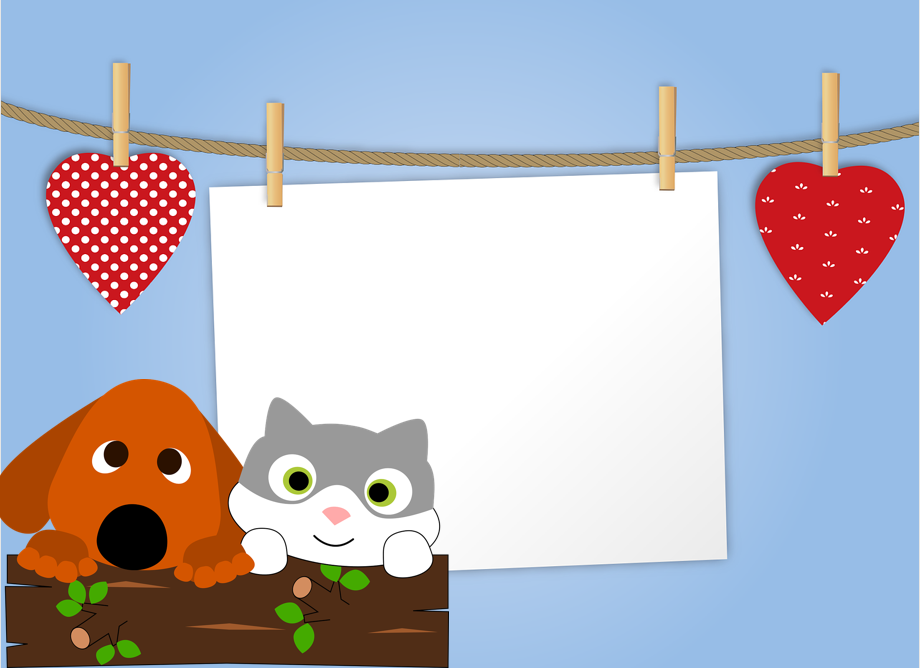
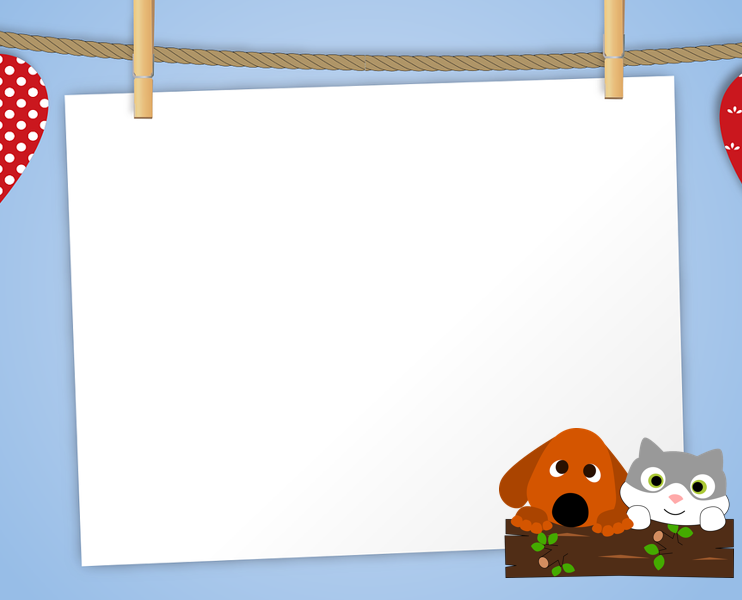
change on quizzs pages and make try agian get same quizze

diff --git a/src/Pages/result.jsx b/src/Pages/result.jsx
@@ -13,7 +13,7 @@ import axios from "axios";
 import Navbar from "../components/Navbar";
 
 //assest
-import bg1 from "../asset/quizzes/bg3.png";
+import bg1 from "../asset/quizzes/bg4.png";
 
 const styles = {
   flash: {
@@ -43,19 +43,83 @@ const Result = (props) => {
   const color = () => {
     var result = "";
     if (userComplete.userMark >= 90) {
-      result = "#88bef5";
+      result = "#581b98";
     }
     if (userComplete.userMark >= 75 && userComplete.userMark < 90) {
-      result = "#fccde2";
+      result = "#fc5185";
     }
     if (userComplete.userMark >= 50 && userComplete.userMark < 75) {
       result = "#2cb978";
     }
     if (userComplete.userMark >= 0 && userComplete.userMark < 50) {
-      result = "#ff1f5a";
+      result = "#482ff7";
     }
     return result;
   };
+
+  const suggestion = () => {
+    var suggestion = "";
+    if (quizBundle.quizSeries == 1 && userComplete.userMark <100){
+      suggestion = "Please learn more in What is drought page";
+    }
+    if (quizBundle.quizSeries == 1 && userComplete.userMark == 100){
+      suggestion = "Good understanding about what is drought";
+    }
+    if (quizBundle.quizSeries == 2 && userComplete.userMark <100){
+      suggestion = "Please learn more in Why drought happens page";
+    }
+    if (quizBundle.quizSeries == 2 && userComplete.userMark == 100){
+      suggestion = "Good understanding about why drought happens";
+    }
+    if (quizBundle.quizSeries == 3 && userComplete.userMark <100){
+      suggestion = "Please learn more in Damage page";
+    }
+    if (quizBundle.quizSeries == 3 && userComplete.userMark == 100){
+      suggestion = "Good understanding about damage of drought";
+    }
+    if (quizBundle.quizSeries == 4 && userComplete.userMark <100){
+      suggestion = "Please learn more in countermeasure page";
+    }
+    if (quizBundle.quizSeries == 4 && userComplete.userMark == 100){
+      suggestion = "Good understanding about how to prevent drought";
+    }
+    if (quizBundle.quizSeries == 5 && userComplete.userMark <100){
+      suggestion = "Please learn more in virtualisation pages";
+    }
+    if (quizBundle.quizSeries == 5 && userComplete.userMark == 100){
+      suggestion = "Good understanding about virtualisation pages";
+    }
+    if (quizBundle.quizSeries == 6 && userComplete.userMark <100){
+      suggestion = "Please learn more in History of drought page";
+    }
+    if (quizBundle.quizSeries == 6 && userComplete.userMark == 100){
+      suggestion = "Good understanding about history of drought";
+    }
+    return suggestion;
+  }
+
+  const WrongAnswer = () =>{
+    var correctAuswers = "";
+    console.log(quizBundle);
+    if (userComplete.userMark <100){
+    for(var i =0; i <quizBundle.questions.length;i++)
+    {
+      if(quizBundle.questions[i].correctAnswer != quizBundle.questions[i].userSelect)
+      {
+        var b = i + 1;
+        var userAnswer = "";
+        if (quizBundle.questions[i].userSelect == " ")
+        {
+          userAnswer = "nothing";
+        }else{
+          userAnswer = quizBundle.questions[i].userSelect;
+        }
+        correctAuswers += "In the question "+ b +", you choose " + userAnswer + " but correct answer is " + quizBundle.questions[i].correctAnswer + "\n"
+      }
+    }
+    }else{correctAuswers ="Congratulations! You answer all questions correct!!!"}
+    return correctAuswers;
+  }
 
   const judge = () => {
     var result = "";
@@ -143,12 +207,12 @@ const Result = (props) => {
       padding: theme.spacing(27, 0, 27),
     },
     headingContent1: {
-      padding: theme.spacing(7, 90, 0),
+      padding: theme.spacing(7, 100, 0),
     },
     titleStyle: {
       padding: theme.spacing(15, 0, 0),
       color: "#000000",
-      fontSize: 20,
+      fontSize: 40,
       fontWeight: "bold",
     },
     titleStyle1: {
@@ -162,6 +226,12 @@ const Result = (props) => {
       fontSize: 20,
       fontWeight: "bold",
       padding: theme.spacing(5, 0, 0),
+    },
+    titleStyle3: {
+      color: "#000000",
+      fontSize: 20,
+      fontWeight: "bold",
+      padding: theme.spacing(0, 0, 0),
     },
     subtitleStyle: {
       color: "#fdfdfd",
@@ -210,6 +280,13 @@ const Result = (props) => {
           className={classes.titleStyle}
           align="center"
         >
+          Hi! {userName}
+        </Typography>
+        <Typography
+          {...resultProp}
+          className={classes.titleStyle2}
+          align="center"
+        >
           {"You have try " +
             userComplete.userCompleted +
             " question out of total " +
@@ -221,20 +298,31 @@ const Result = (props) => {
           className={classes.titleStyle2}
           align="center"
         >
-          {"Your got " + userComplete.userScore + " correct answer"}
-        </Typography>
-        <Typography
-          {...resultProp}
-          className={classes.titleStyle2}
-          align="center"
-        >
-          {"Your final mark is " +
+          {"Your got " + userComplete.userScore + " correct answer, "}
+          {"your final mark is " +
             Math.round(
               (userComplete.userScore / userComplete.totalQuiz +
                 Number.EPSILON) *
                 100
             )}
         </Typography>
+        <Typography
+          {...resultProp}
+          className={classes.titleStyle2}
+          align="center"
+        >
+          {suggestion()}
+        </Typography>
+        <div
+          {...resultProp}
+          className={classes.titleStyle2}
+          align="center"
+          style={{
+            'white-space': 'pre-wrap'
+          }}
+        > 
+          {WrongAnswer()}
+        </div>
         <Typography {...resultProp} className={classes.textIn}>
           <Button
             variant="contained"
@@ -243,6 +331,7 @@ const Result = (props) => {
             to={{
               pathname: "./quizzes1",
               param1: userName,
+              param2: quizBundle.quizSeries,
             }}
           >
             Try again
@@ -266,11 +355,11 @@ const Result = (props) => {
           )}
         </Typography>
         <StyleRoot>
-          <div style={styles.bounceIn} className={classes.headingContent1}>
+          <div style={styles.bounceIn}>
             <Typography
               className={classes.titleStyle1}
-              style={{ position: "absolute" }}
-              align="right"
+              // style={{ position: "absolute" }}
+              align="center"
             >
               {judge()}
             </Typography>

diff --git a/src/Pages/quizzes1.jsx b/src/Pages/quizzes1.jsx
@@ -186,6 +186,7 @@ const styles = {
 
 function Quizzes1(props) {
   const [userName, setUserName] = React.useState(props.location.param1);
+  const [index1, setIndex1] = React.useState(props.location.param2);
   console.log("current Username = " + userName);
 
   const classes = whatever();
@@ -212,12 +213,15 @@ function Quizzes1(props) {
   }, []);
 
   const getQuizzes = async () => {
-    makeSuggestion();
-
+    var suggestion1 = "";
+    if (index1 == null){
+      suggestion1 = "{" + '"' + "quiz_id" + '"' + ":" + randomInt(1, 6) + "}";
+    }else{suggestion1 = "{" + '"' + "quiz_id" + '"' + ":" + index1 + "}";
+    }
     axios({
       method: "post",
       url: "https://kv2t6suexk.execute-api.ap-southeast-2.amazonaws.com/test",
-      data: suggestion,
+      data: suggestion1,
     })
       .then(function (response) {
         console.log(response);
@@ -231,22 +235,10 @@ function Quizzes1(props) {
 
   const [start, setStart] = React.useState(true);
 
-  const makeSuggestion = async () => {
-    // setIndex(() => randomInt(1, 6));
-    await setSuggestion(
-      () => "{" + '"' + "quiz_id" + '"' + ":" + randomInt(1, 6) + "}"
-    );
-  };
 
   const randomInt = (min, max) => {
     return Math.floor(Math.random() * (max - min) + min);
   };
-
-  const [index, setIndex] = React.useState(randomInt(1, 6));
-
-  const [suggestion, setSuggestion] = React.useState(
-    "{" + '"' + "quiz_id" + '"' + ":" + index + "}"
-  );
 
   const [quizBundle, setQuizBundle] = React.useState({
     quizSeries: 0,
@@ -374,14 +366,14 @@ function Quizzes1(props) {
           </Typography>
 
           <FormControl component="fieldset">
-            <FormLabel component="legend"></FormLabel>
+            <FormLabel component="legend" ></FormLabel>
             <RadioGroup
               aria-label="Quiz"
               name={"Quiz" + (key + 1)}
               //value={value}
-              onChange={(e) => handleChange(e, question)}
+              onChange={(e) => handleChange(e, question)} 
             >
-              {mapAnswers(question.answers)}
+            {mapAnswers(question.answers)}              
             </RadioGroup>
           </FormControl>
         </div>

diff --git a/src/Pages/quizzes.jsx b/src/Pages/quizzes.jsx
@@ -481,7 +481,7 @@ function Quizzes() {
                   </Typography>
                 </div>
                 <Typography className={classes.subtitleStyle1} align="center">
-                  find correct color in pie chart! eg.{firstPer}% users get
+                  Find your position in pie chart! eg.{firstPer}% users get
                   75-100 points
                 </Typography>
                 <div className={classes.quize}>
